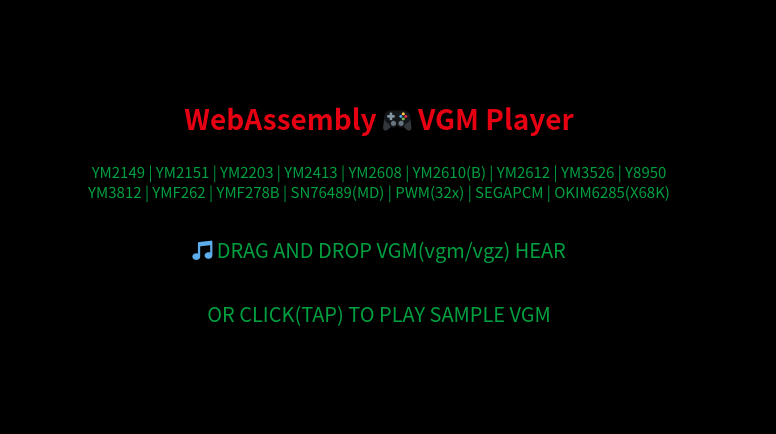
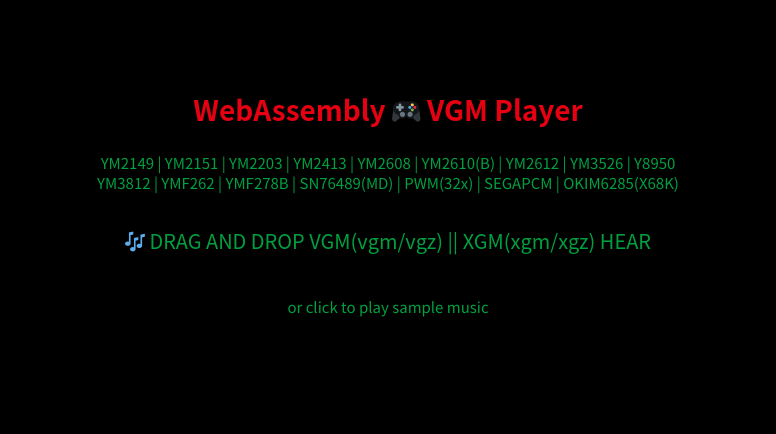
update README

diff --git a/README.md b/README.md
@@ -66,7 +66,7 @@ Hiromasa Tanaka <h1romas4@gmail.com>
 libymfm CLI
 
 USAGE:
-    libymfm-cli.wasm [OPTIONS] <vgm filename>
+    libymfm-cli.wasm [OPTIONS] <filename>
 
 FLAGS:
     -h, --help       Prints help information
@@ -78,7 +78,7 @@ OPTIONS:
     -r, --rate <rate>                 Output sampling rate
 
 ARGS:
-    <vgm filename>    Play .vgm/.vzg file path
+    <filename>    Play .vgm/.vzg/.xgm/.xgz file path
 ```
 
 Example 1 - Specify output file name

diff --git a/examples/libymfm-cli/README.md b/examples/libymfm-cli/README.md
@@ -47,7 +47,7 @@ Hiromasa Tanaka <h1romas4@gmail.com>
 libymfm CLI
 
 USAGE:
-    libymfm-cli.wasm [OPTIONS] <vgm filename>
+    libymfm-cli.wasm [OPTIONS] <filename>
 
 FLAGS:
     -h, --help       Prints help information
@@ -59,7 +59,7 @@ OPTIONS:
     -r, --rate <rate>                 Output sampling rate
 
 ARGS:
-    <vgm filename>    Play .vgm/.vzg file path
+    <filename>    Play .vgm/.vzg/.xgm/.xgz file path
 ```
 
 Example 1 - specify output file name
